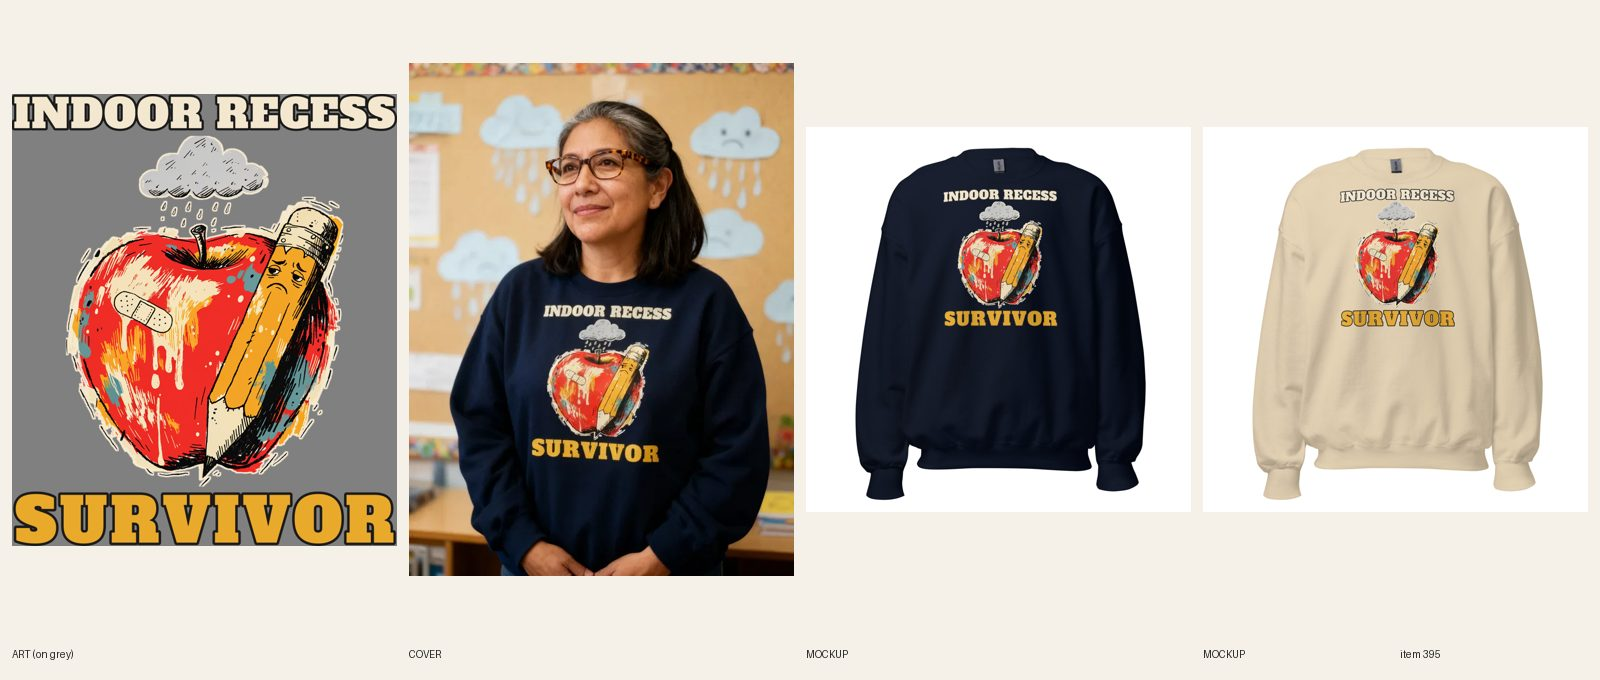
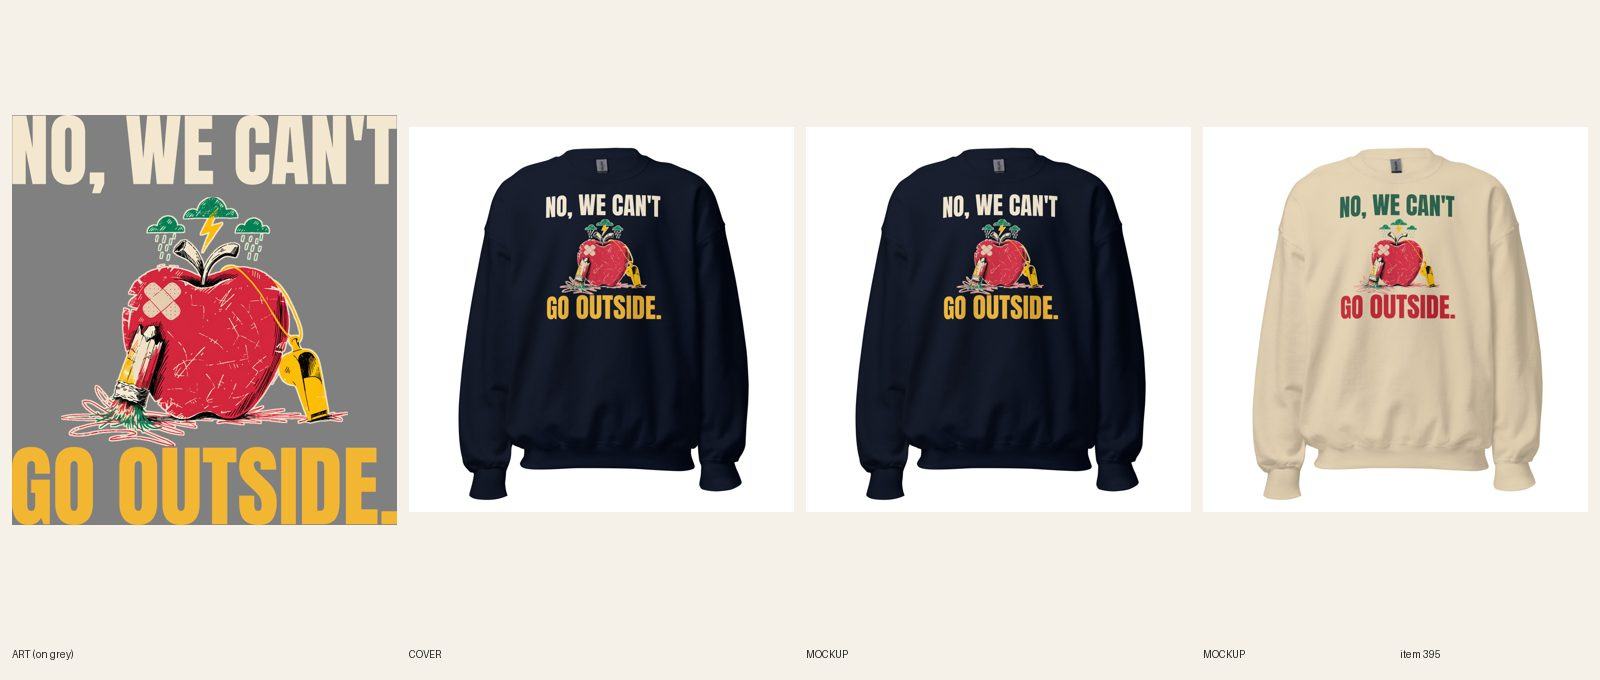
[E] review 395 redid #395 Women's Teacher crewneck (line + type: NO, WE CAN'T GO OUTSIDE., new bandaged-apple art, Navy + Sand files, 12/12 synced, copy updated, plain product shot). REVIEW. fal $0.04.

Changed region(s): [[0.0, 0.0926, 0.5, 0.8647], [0.8125, 0.2779, 0.9062, 0.4941], [0.5625, 0.2779, 0.6562, 0.4941]]

diff --git a/scripts/e-look.py b/scripts/e-look.py
@@ -1,0 +1,8 @@
+#!/usr/bin/env python3
+"""e-look.py <outdir> <url> [<url> ...]: downloads mockups to <outdir>/m1.jpg.. and writes <outdir>/look.jpg (all at 400 px wide, side by side)."""
+import sys, io, urllib.request
+from PIL import Image
+ims = []
+for i, u in enumerate(sys.argv[2:], 1):
+    d = urllib.request.urlopen(u).read(); open(f'{sys.argv[1]}/m{i}.jpg', 'wb').write(d); im = Image.open(io.BytesIO(d)).convert('RGB'); ims.append(im.resize((400, int(im.height * 400 / im.width))))
+o = Image.new('RGB', (400 * len(ims), ims[0].height)); [o.paste(im, (400 * k, 0)) for k, im in enumerate(ims)]; o.save(f'{sys.argv[1]}/look.jpg')

diff --git a/docs/pipeline/395-teacher-crew-indoor-recess-survivor.md b/docs/pipeline/395-teacher-crew-indoor-recess-survivor.md
@@ -1,4 +1,4 @@
-status: REDO
+status: REVIEW
 shopify: gid://shopify/Product/15363410854192
 lane: E
 type: new
@@ -29,3 +29,4 @@ kd: 61
 - 2026-10-17 20:15 UTC builder [E]: REVIEW. Art: Recraft v4 picture only (1 call), words set with compose-print.py (Alfa Slab: INDOOR RECESS cream, SURVIVOR mustard, dark outline), thin cream keyline (halo 9) for the dark pencil shadow on Navy. Print 3099x3637, FW 1650 TOP 0. R6.2 ok. Printful file 1088453127, sync product 482415742 12/12. Mockups Navy + Sand fronts + back attached per color; phone read OK. Copy fixed (slab capitals, not hand-drawn); FAQ 5 Qs (kept the builder's earlier 5, 44-55 words). Cover: registry 586, classroom with paper rain clouds, seedream 1 attempt, hair clear of print, every word legible. fal ~$0.12. audit-local PASS. design-crops/variant-photo-audit need the published page.
 - 2026-10-17 20:19 UTC director: APPROVED, LIVE. ACTIVE + published Online Store, Headless, Google; cohesion-audit --handle PASS. added graphic-sweatshirts tag (it had no collection tag, R7.5).
 - 2026-10-18 17:22 UTC director: QUALITY RESET grade C (new line + type), REDO. The product stays ACTIVE (same handle, URL, title keyword). 1. Line (R3.12, quality-reset 'Lines'): "INDOOR RECESS / SURVIVOR": Tired "X survivor" format; teacher-only, no punchline. Write 5 candidates, keep the one a stranger laughs at in 3 seconds without backstory; kill lines that only describe the picture; if none of the 5 is funny, PARK it. 2. Quality reset type bar (docs/backlog/quality-reset.md, 'The new bar'): headline at least 90% of the art width, heavy, colors pulled from the art; second line at least 45% of the headline's height, never a thin script on a dark or mid garment; use the lettering as a shape (arch, stacked lockup, words breaking into the art), not a plain bar above and a script line below; no font used on more than 1 in 6 of the last 30 designs. 3. Keep the art if it carries the new line, else one new illustration (R4/R5). New print means a new cover per R6.10, copy line one rewritten for the new joke (R8.3), and a fresh review sheet (R7.7). While quality-reset.md says PAUSED, only lane A builds, and only the samples step 2 names.
+- 2026-10-20 03:49 UTC builder [E]: REDO 395 (C grade, line + type) done on the existing product (stays ACTIVE, handle unchanged). 5 candidates: "NO, WE CAN'T GO OUTSIDE."; "The Whistle Is Not A Toy"; "Rainy Day Schedule: Survive"; "Indoor Recess Survivor" (old); "I Blew The Whistle On Recess". Kept NO, WE CAN'T / GO OUTSIDE. (the one sentence every teacher says on a rainy day, 3 seconds). One new Recraft call ($0.04): bandaged apple, chewed pencil, whistle, rain clouds, no words. Anton at full print width, both lines same height. Navy file 1090143775 (cream + mustard, thin cream halo); Sand file 1090143813 (chalkboard green + apple red, dark fill: light file logged for Sand). FW 1650 TOP 75, 12/12 synced on the right file per color, back logo kept. Fronts replaced in place, alts updated, title/SEO/copy/FAQs rewritten. Cover: handle added to retired-covers.json (plain product shot). Phone-size read OK on both. audit --handle PASS 0 warn; astro build OK. fal $0.04. Sheet docs/review/395.jpg.

diff --git a/docs/intake-log.md b/docs/intake-log.md
@@ -1,5 +1,6 @@
 2026-10-20 03:47 UTC — [H] Helper run: audit 607 products, 0 errors, 30 warnings (no scripted ERRORs to fix). Category check: 0 products without a Shopify category. Site check: 3 newest LIVE pages (#618, #578, #548) all 200. Stuck-work check: nothing BUILDING, all locks under 2h. Telegram: no new messages. Announcement bar already on holiday line. Daily summary not due (before 12:00 UTC). Lock released.
 RUNNING lane B since 2026-10-20 03:28 UTC
+2026-10-20 03:49 UTC — [E] Builder run: redid #395 Women's Teacher crewneck (line + type: NO, WE CAN'T GO OUTSIDE., new bandaged-apple art, Navy + Sand files, 12/12 synced, copy updated, plain product shot). REVIEW. fal $0.04.
 2026-10-20 03:37 UTC — [A] Builder run: redid #246 Unisex Thanksgiving Totally a Pilgrim hoodie (type+line: NOT A TURKEY. / JUST A PILGRIM., same turkey art, Bowlby One full width, FW 1500 TOP 0, Sand file 1090137152 / Navy file 1090137159, 12/12 relinked, 2 fronts replaced in place, copy updated, plain product shot). REVIEW. fal $0.
 2026-10-20 03:41 UTC — [B] Builder run: redid #362 Women's Baseball hoodie (line + type: MISSED THE PLAY. / SEEDS WERE GOOD., same art, Bowlby One, Navy + Sand light files, 12/12 synced). REVIEW. fal $0.
 2026-10-20 05:26 UTC — [E] Builder run: redid #388 Women's Christmas crewneck (line + type: SORRY, I'M BOOKED TILL JANUARY., new party-calendar art, Navy + Sand files, 12/12 synced, copy updated, plain product shot). REVIEW. fal $0.08.
